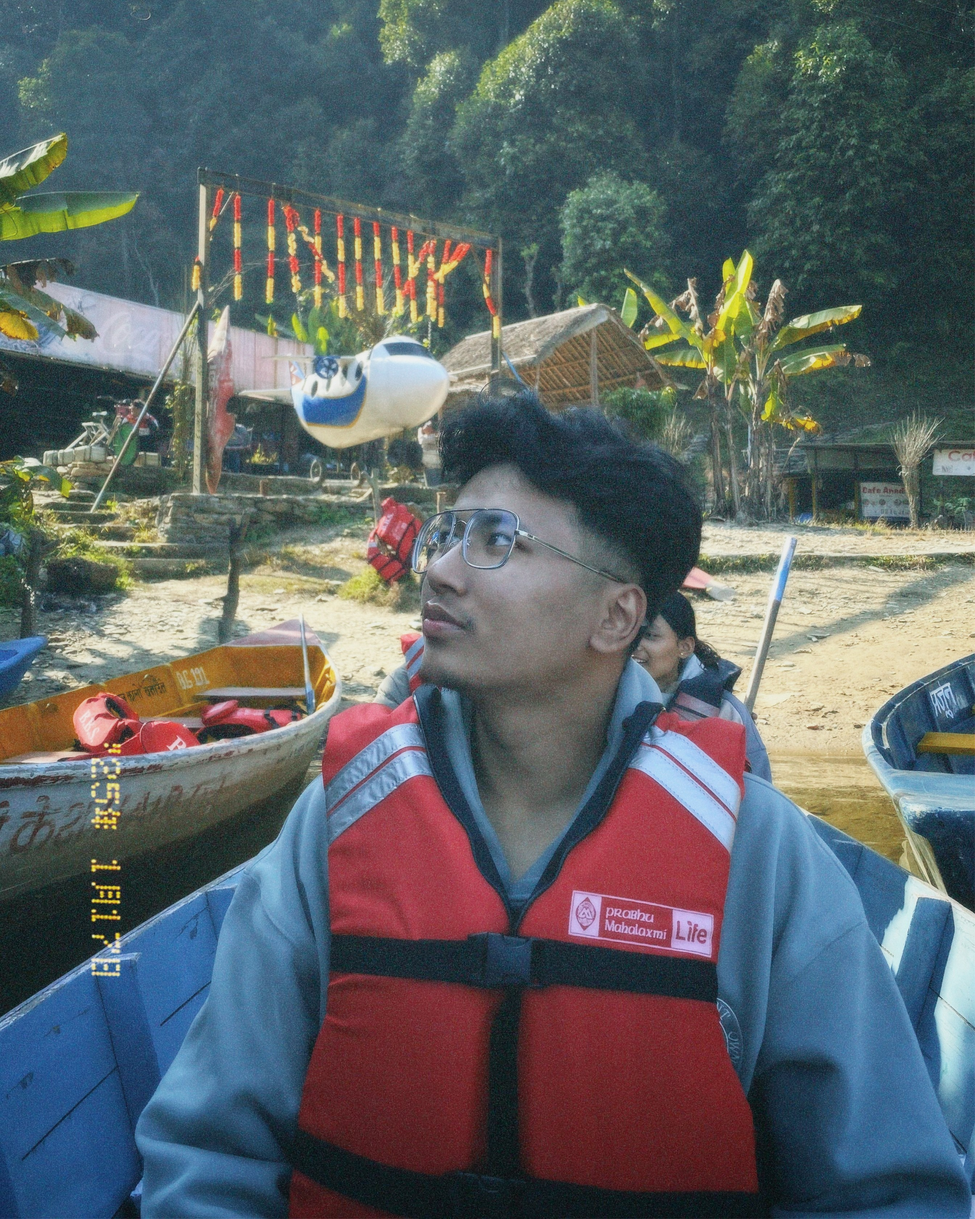
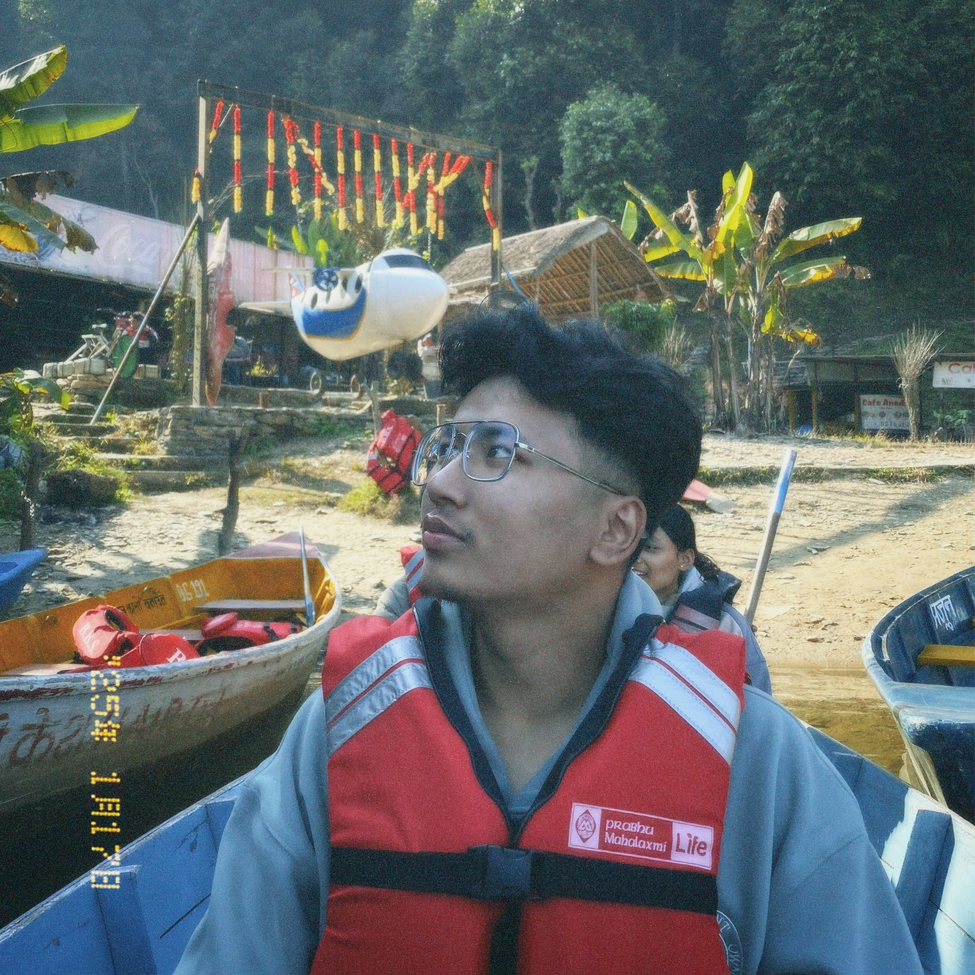
image bug fix

diff --git a/wwwroot/css/styles.css b/wwwroot/css/styles.css
@@ -210,7 +210,7 @@ img {
   position: absolute;
   right: 0;
   bottom: 0;
-  height:445px;
+  
  
 }
 .home__blob {
@@ -432,6 +432,7 @@ img {
   }
   .home__img {
     width: 200px;
+    bottom: 25%;
   }
 }
 @media screen and (min-width: 576px) {
@@ -474,6 +475,8 @@ img {
   .contact__container {
     justify-items: center;
   }
+  
+    
 }
 @media screen and (min-width: 768px) {
   body {
@@ -543,3 +546,13 @@ img {
     width: 450px;
   }
 }
+@media (max-width: 576px) {
+  .home__img img {
+      width: 100%;
+      height: auto;
+      max-width: 300px;
+      display: block;
+      margin: 0 auto;
+  }
+}
+

diff --git a/index.html b/index.html
@@ -74,7 +74,7 @@
 
 
             </svg>-->
-                <img src="wwwroot/img/Boating.jpg" height="450" width="360" style="border-radius:45%" />
+                <img src="wwwroot/img/Boating.jpg"  style="border-radius:45%" />
 
             </div>
         </section>
